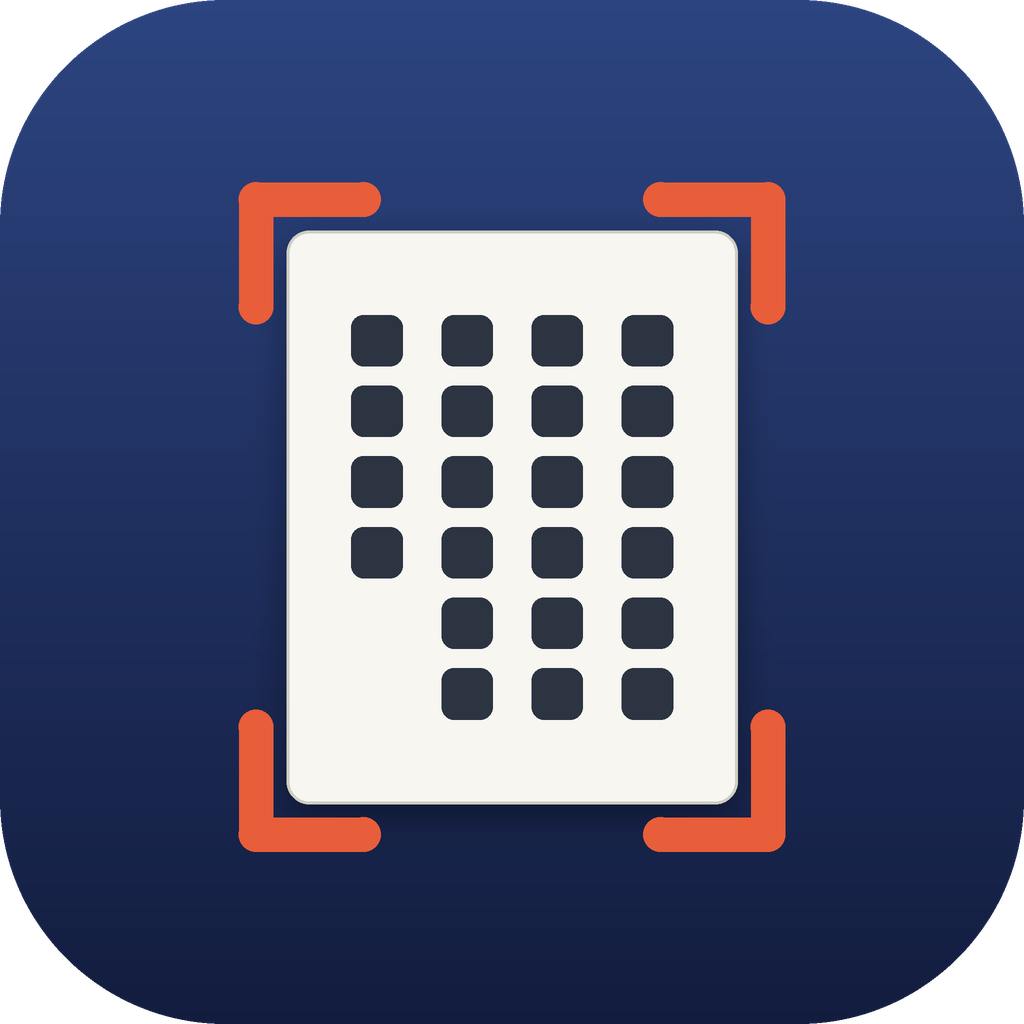
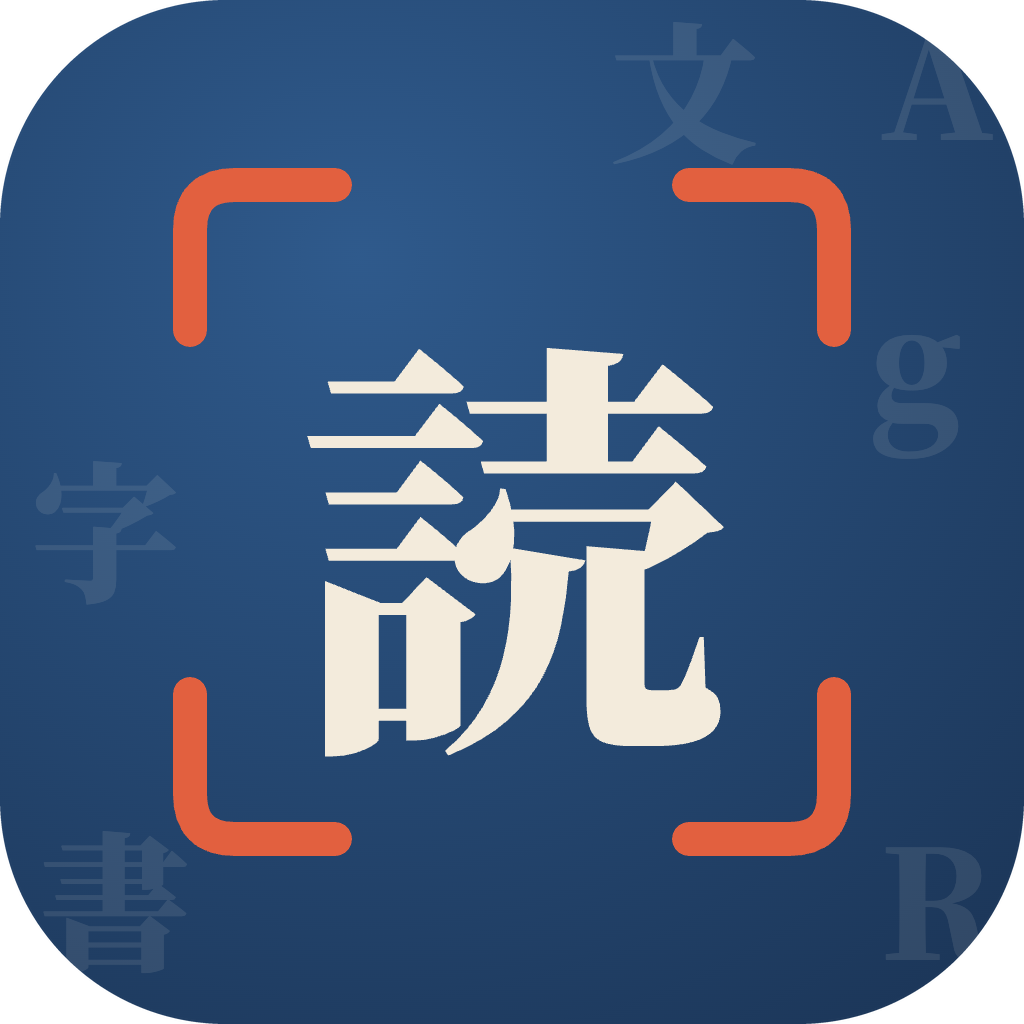
アイコンをスマホ版と同じ図案（藍の地・朱の括弧・「読」）に替える (#56)

diff --git a/scripts/build_icons.py b/scripts/build_icons.py
@@ -1,17 +1,20 @@
 #!/usr/bin/env python3
 """アプリのアイコンを描いて、必要な形に書き出す。
 
-Pillow だけで描く。外部の画像素材もネットワークも要らないので、
-いつ実行しても同じものが出る（元絵の PSD/AI を管理しなくて済む）。
-考え方は ~/git/kim/archival-packager/scripts/build_icons.py と同じ。
+絵柄はスマホ版（nakamura196/local-ocr-ios の scripts/make_app_icon.py）と同じ。
+藍の地に、太い明朝の「読」を 1 字置き、四隅を朱の括弧（読み取り枠）で囲む。
+背景にいくつかの文字（文・字・書・A・g・R）を薄く置く。
+KotenOCR（生成りの地・朱の括弧・「典」）と同じ組み方にして、姉妹のアプリだと分かるようにし、
+地の色と字で見分ける。スマホ版の図案を直したら、こちらも同じように直す。
 
-絵柄: 藍色の地に縦書きの頁を置き、その四隅を朱色の鉤括弧で囲む。
-「手元にある紙面を、いま機械が読んでいる」という意味。
-archival-packager（青緑＋箱）とは色も形も重ならないようにしてある。
+文字の形を正しく出すため、SVG を Google Chrome（画面なしで起動）で描く。
+書体は Google Fonts の Noto Serif JP Black と Noto Serif（SIL Open Font License 1.1）。
+描くときに Google Fonts から書体を取るので、ネットワークが要る。
 
 書き出し先:
     assets/icon.png                     Flet がアプリのアイコンに使う（1024px）
     packaging/windows/Assets/*.png      MSIX（Microsoft Store）が使う
+    docs/assets/icon.png                紹介サイト（lo.ldas.jp）の左上（128px）
 
 使い方:
     uv run python scripts/build_icons.py
@@ -19,133 +22,108 @@ archival-packager（青緑＋箱）とは色も形も重ならないようにし
 
 from __future__ import annotations
 
+import subprocess
+import tempfile
 from pathlib import Path
 
-from PIL import Image, ImageDraw, ImageFilter
+from PIL import Image, ImageDraw
 
 ROOT = Path(__file__).resolve().parent.parent
 
 MASTER = 1024
+CHROME = "/Applications/Google Chrome.app/Contents/MacOS/Google Chrome"
+GOOGLE = (
+    '<link href="https://fonts.googleapis.com/css2?family=Noto+Serif+JP:wght@900'
+    '&family=Noto+Serif:wght@600&display=block" rel="stylesheet">'
+)
+CHAR = "読"
 
-BG_TOP = (44, 68, 128)       # 藍。上が明るい
-BG_BOTTOM = (18, 28, 62)     # 下は沈める
-PAGE = (247, 246, 241)       # 生成りの紙
-PAGE_EDGE = (206, 206, 196)  # 紙の縁の影
-INK = (44, 52, 66)           # 墨
-MARK = (232, 93, 58)         # 朱。読み取り枠
-
-
-def _lerp(a: int, b: int, t: float) -> int:
-    return round(a + (b - a) * t)
-
-
-def _vertical_gradient(size: int, top: tuple, bottom: tuple) -> Image.Image:
-    grad = Image.new("RGB", (1, size))
-    px = grad.load()
-    for y in range(size):
-        t = y / max(1, size - 1)
-        px[0, y] = (
-            _lerp(top[0], bottom[0], t),
-            _lerp(top[1], bottom[1], t),
-            _lerp(top[2], bottom[2], t),
-        )
-    return grad.resize((size, size))
+INDIGO_LIGHT = "#2f5a8c"  # 藍。左上が明るい
+INDIGO_DARK = "#1b3557"
+INK = "#f3ebdc"  # 生成り
+SHU = "#e2603f"  # 朱。読み取り枠
 
 
-def _rounded_mask(size: int, radius: int) -> Image.Image:
-    mask = Image.new("L", (size, size), 0)
-    ImageDraw.Draw(mask).rounded_rectangle(
-        [0, 0, size - 1, size - 1], radius=radius, fill=255
+def svg() -> str:
+    bg = (
+        '<defs><radialGradient id="g" cx="35%" cy="25%" r="95%">'
+        f'<stop offset="0" stop-color="{INDIGO_LIGHT}"/>'
+        f'<stop offset="1" stop-color="{INDIGO_DARK}"/></radialGradient></defs>'
+        '<rect width="1024" height="1024" fill="url(#g)"/>'
     )
-    return mask
+    ghosts = (
+        "<g font-family=\"'Noto Serif JP','Noto Serif',serif\" font-size=\"150\" "
+        f'fill="{INK}" opacity="0.10">'
+        '<text x="610" y="150">文</text><text x="880" y="140">A</text>'
+        '<text x="30" y="590">字</text><text x="870" y="420">g</text>'
+        '<text x="40" y="960">書</text><text x="880" y="960">R</text></g>'
+    )
+    corners = (
+        f'<g fill="none" stroke="{SHU}" stroke-width="34" '
+        'stroke-linecap="round" stroke-linejoin="round">'
+        '<path d="M190 330 V230 Q190 185 235 185 H335"/>'
+        '<path d="M689 185 H789 Q834 185 834 230 V330"/>'
+        '<path d="M190 694 V794 Q190 839 235 839 H335"/>'
+        '<path d="M689 839 H789 Q834 839 834 794 V694"/></g>'
+    )
+    text = (
+        '<text x="512" y="530" text-anchor="middle" dominant-baseline="central" '
+        'font-family="\'Noto Serif JP\',serif" font-weight="900" '
+        f'font-size="430" fill="{INK}">{CHAR}</text>'
+    )
+    return (
+        '<svg viewBox="0 0 1024 1024" xmlns="http://www.w3.org/2000/svg">'
+        f"{bg}{ghosts}{corners}{text}</svg>"
+    )
 
 
-def _bracket(d: ImageDraw.ImageDraw, x: float, y: float, arm: float,
-             sx: int, sy: int, width: int) -> None:
-    """(x, y) を角として、sx/sy の向きに腕を伸ばした鉤括弧を 1 つ描く。"""
-    d.line([(x, y + sy * arm), (x, y), (x + sx * arm, y)],
-           fill=MARK, width=width, joint="curve")
-    cap = width / 2
-    for px_, py_ in ((x, y + sy * arm), (x + sx * arm, y), (x, y)):
-        d.ellipse([px_ - cap, py_ - cap, px_ + cap, py_ + cap], fill=MARK)
+def render_square(png: Path) -> None:
+    """角を丸めていない正方形を Chrome で描く。"""
+    html = (
+        f'<!doctype html><html><head><meta charset="utf-8">{GOOGLE}<style>'
+        "html,body{margin:0;width:1024px;height:1024px;overflow:hidden}"
+        "svg{display:block;width:1024px;height:1024px}"
+        f"</style></head><body>{svg()}</body></html>"
+    )
+    page = png.with_suffix(".html")
+    page.write_text(html, encoding="utf-8")
+    subprocess.run(
+        [
+            CHROME,
+            "--headless=new",
+            "--hide-scrollbars",
+            "--force-device-scale-factor=1",
+            "--window-size=1024,1024",
+            "--virtual-time-budget=15000",
+            f"--screenshot={png}",
+            page.as_uri(),
+        ],
+        check=True,
+        stdout=subprocess.DEVNULL,
+        stderr=subprocess.DEVNULL,
+    )
+
+
+def rounded(square: Image.Image) -> Image.Image:
+    """Big Sur 風に角を丸める（前の版と同じ丸み）。縁を滑らかにするため 4 倍で切り抜く。"""
+    big = MASTER * 4
+    mask = Image.new("L", (big, big), 0)
+    ImageDraw.Draw(mask).rounded_rectangle(
+        [0, 0, big - 1, big - 1], radius=int(big * 0.22), fill=255
+    )
+    out = square.convert("RGBA")
+    out.putalpha(mask.resize((MASTER, MASTER), Image.LANCZOS))
+    return out
 
 
 def render_master() -> Image.Image:
-    """MASTER の大きさで RGBA を描く。"""
-    S = MASTER
-    SS = 2                      # 一度 2 倍で描いて縮める（縁を滑らかに）
-    W = S * SS
-
-    radius = int(W * 0.22)      # Big Sur 風の丸み
-    grad = _vertical_gradient(W, BG_TOP, BG_BOTTOM).convert("RGBA")
-    canvas = Image.new("RGBA", (W, W), (0, 0, 0, 0))
-    canvas.paste(grad, (0, 0), _rounded_mask(W, radius))
-
-    cx = W / 2
-    cy = W * 0.505
-
-    # --- 紙 ---------------------------------------------------------------
-    page_w = W * 0.44
-    page_h = W * 0.56
-    page_left = cx - page_w / 2
-    page_right = cx + page_w / 2
-    page_top = cy - page_h / 2
-    page_bottom = cy + page_h / 2
-    r_page = W * 0.022
-
-    shadow = Image.new("RGBA", (W, W), (0, 0, 0, 0))
-    ImageDraw.Draw(shadow).rounded_rectangle(
-        [page_left, page_top, page_right, page_bottom],
-        radius=r_page, fill=(0, 0, 0, 90),
-    )
-    shadow = shadow.filter(ImageFilter.GaussianBlur(W * 0.016))
-    drop = Image.new("RGBA", (W, W), (0, 0, 0, 0))
-    drop.paste(shadow, (0, int(W * 0.014)))
-    canvas = Image.alpha_composite(canvas, drop)
-
-    d = ImageDraw.Draw(canvas)
-    d.rounded_rectangle(
-        [page_left, page_top, page_right, page_bottom],
-        radius=r_page, fill=PAGE, outline=PAGE_EDGE,
-        width=max(1, int(W * 0.003)),
-    )
-
-    # --- 縦書きの文字 -------------------------------------------------------
-    # 右から左へ 4 行。角の丸い正方形を積む。大きく出せば文字に、
-    # 小さく出せば縞に見える（44px でも潰れない）。
-    # 最後の行（左端）だけ短くして、文章の終わりらしく見せる。
-    glyph = W * 0.050          # 文字の一辺
-    gap_y = W * 0.019          # 字間
-    gap_x = W * 0.038          # 行間
-    r_glyph = glyph * 0.24
-    counts = (6, 6, 6, 4)
-
-    block_w = len(counts) * glyph + (len(counts) - 1) * gap_x
-    block_h = max(counts) * glyph + (max(counts) - 1) * gap_y
-    first_cx = cx + block_w / 2 - glyph / 2     # 右端の行の中心
-    col_top = cy - block_h / 2
-
-    for i, n in enumerate(counts):
-        gx = first_cx - i * (glyph + gap_x)
-        for j in range(n):
-            gy = col_top + j * (glyph + gap_y)
-            d.rounded_rectangle(
-                [gx - glyph / 2, gy, gx + glyph / 2, gy + glyph],
-                radius=r_glyph, fill=INK,
-            )
-
-    # --- 読み取り枠（四隅の鉤括弧） -------------------------------------------
-    inset = W * 0.030          # 紙より少し外側
-    arm = W * 0.105
-    stroke = max(3, int(W * 0.034))
-    bl, br = page_left - inset, page_right + inset
-    bt, bb = page_top - inset, page_bottom + inset
-    _bracket(d, bl, bt, arm, +1, +1, stroke)
-    _bracket(d, br, bt, arm, -1, +1, stroke)
-    _bracket(d, bl, bb, arm, +1, -1, stroke)
-    _bracket(d, br, bb, arm, -1, -1, stroke)
-
-    return canvas.resize((S, S), Image.LANCZOS)
+    with tempfile.TemporaryDirectory() as tmp:
+        png = Path(tmp) / "icon.png"
+        render_square(png)
+        square = Image.open(png).convert("RGB")
+    if square.size != (MASTER, MASTER):
+        raise SystemExit(f"Chrome の出力の大きさが違います: {square.size}")
+    return rounded(square)
 
 
 def emit() -> None:
@@ -153,8 +131,12 @@ def emit() -> None:
 
     app_icon = ROOT / "assets" / "icon.png"
     app_icon.parent.mkdir(parents=True, exist_ok=True)
-    master.save(app_icon)
+    master.save(app_icon, optimize=True)
     print(f"{app_icon.relative_to(ROOT)}  {MASTER}x{MASTER}")
+
+    site = ROOT / "docs" / "assets" / "icon.png"
+    master.resize((128, 128), Image.LANCZOS).save(site, optimize=True)
+    print(f"{site.relative_to(ROOT)}  128x128")
 
     # MSIX 用。名前と大きさは AppxManifest.xml.in が参照するものと揃える。
     msix = ROOT / "packaging" / "windows" / "Assets"
@@ -166,7 +148,7 @@ def emit() -> None:
         ("StoreLogo", 50),
     ]:
         path = msix / f"{name}.png"
-        master.resize((size, size), Image.LANCZOS).save(path)
+        master.resize((size, size), Image.LANCZOS).save(path, optimize=True)
         print(f"{path.relative_to(ROOT)}  {size}x{size}")
 
     # ワイドタイルだけ正方形ではないので、中央に置く。
@@ -174,7 +156,7 @@ def emit() -> None:
     glyph = master.resize((132, 132), Image.LANCZOS)
     wide.paste(glyph, ((310 - 132) // 2, (150 - 132) // 2), glyph)
     path = msix / "Wide310x150Logo.png"
-    wide.save(path)
+    wide.save(path, optimize=True)
     print(f"{path.relative_to(ROOT)}  310x150")
 
 
